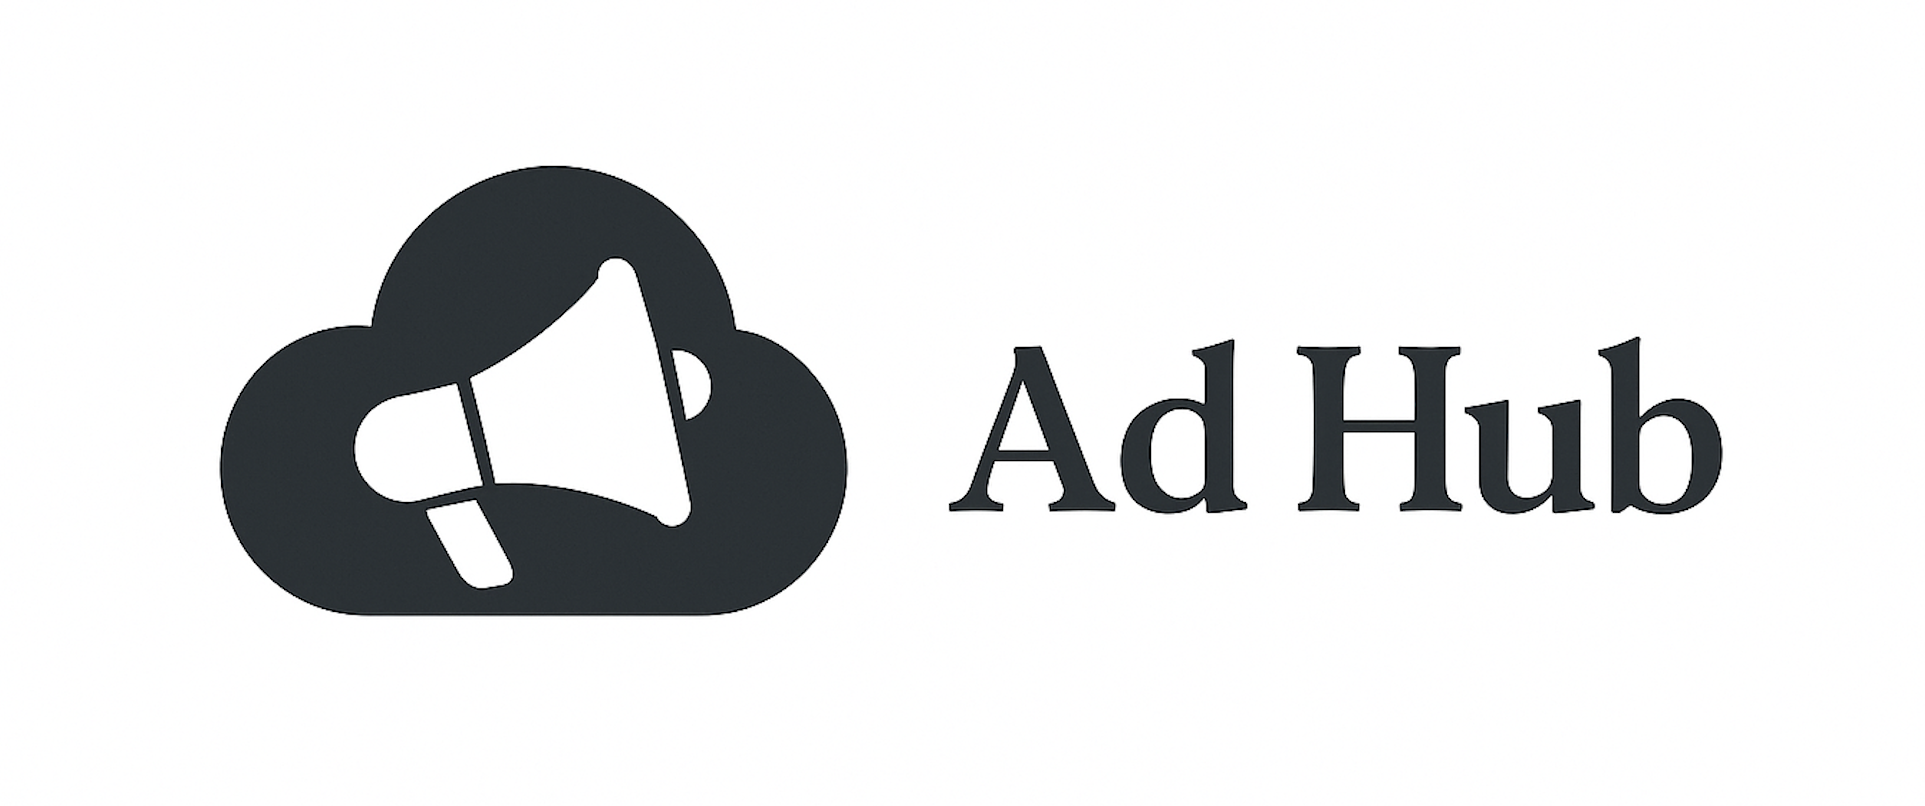
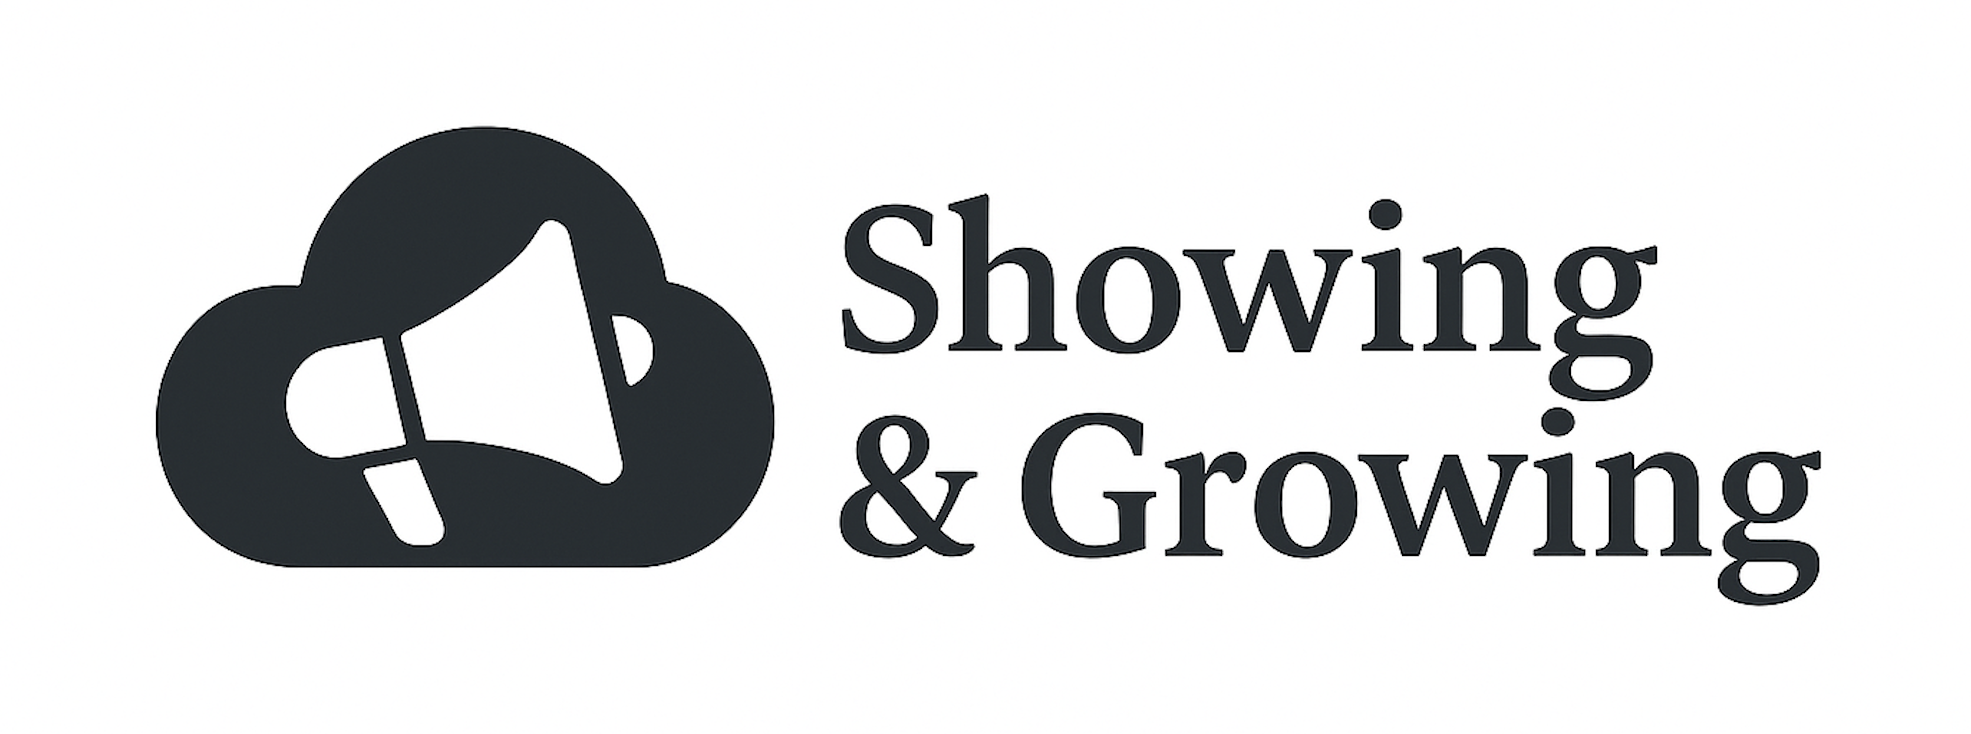
main page updated

Changed region(s): [[0.0623, 0.1499, 0.9351, 0.8392]]

diff --git a/app/page.tsx b/app/page.tsx
@@ -7,12 +7,11 @@ export default function Home() {
       <div className="mx-auto max-w-7xl px-6 py-24 sm:py-32 lg:px-8">
         <div className="mx-auto max-w-2xl text-center">
           <h1 className="text-4xl font-bold text-gray-900 sm:text-6xl tracking-normal">
-            Connect with Amazing Content Creators
+            Showing & Growing — Creators and Businesses Grow Together
           </h1>
           <p className="mt-6 text-lg leading-8 text-gray-600">
-            Find the perfect creator for your brand or showcase your talent to
-            potential partners. Our platform connects businesses and content
-            creators for amazing collaborations.
+            Find talented content creators, promote your brand with their work,
+            and grow together.
           </p>
           <div className="mt-10 flex items-center justify-center gap-x-12">
             <Link

diff --git a/components/Footer.tsx b/components/Footer.tsx
@@ -1,0 +1,7 @@
+import React from 'react';
+
+const Footer = () => {
+  return <div></div>;
+};
+
+export default Footer;
